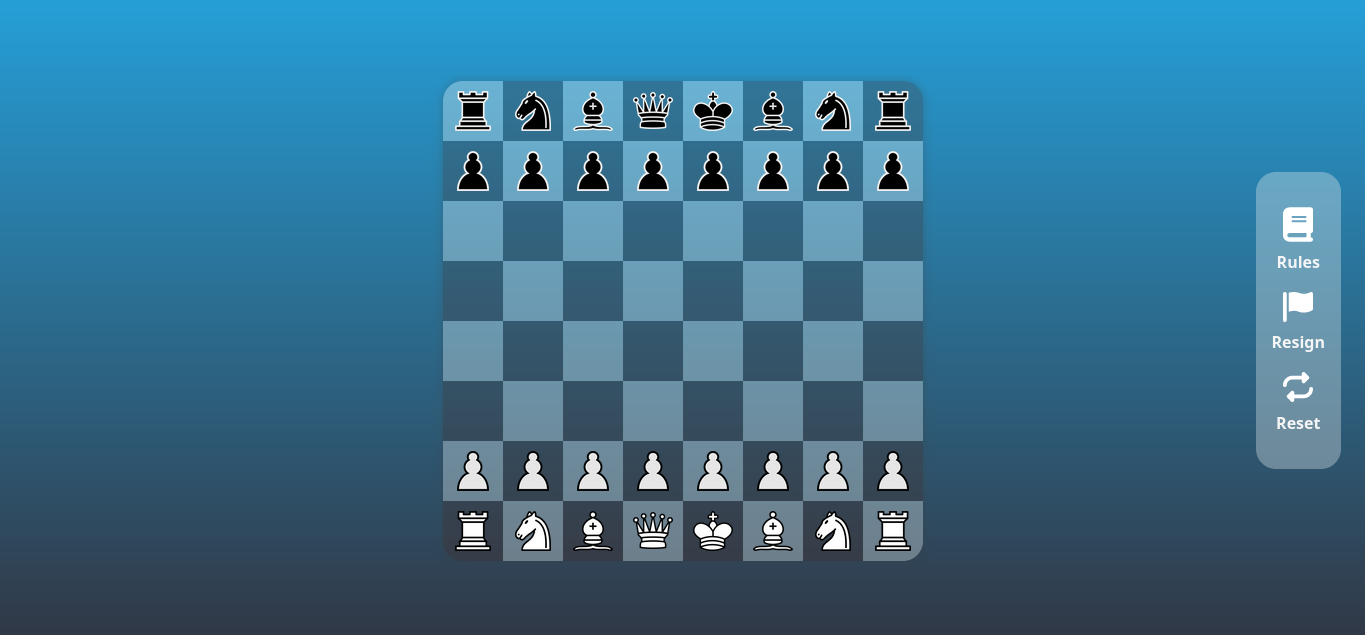
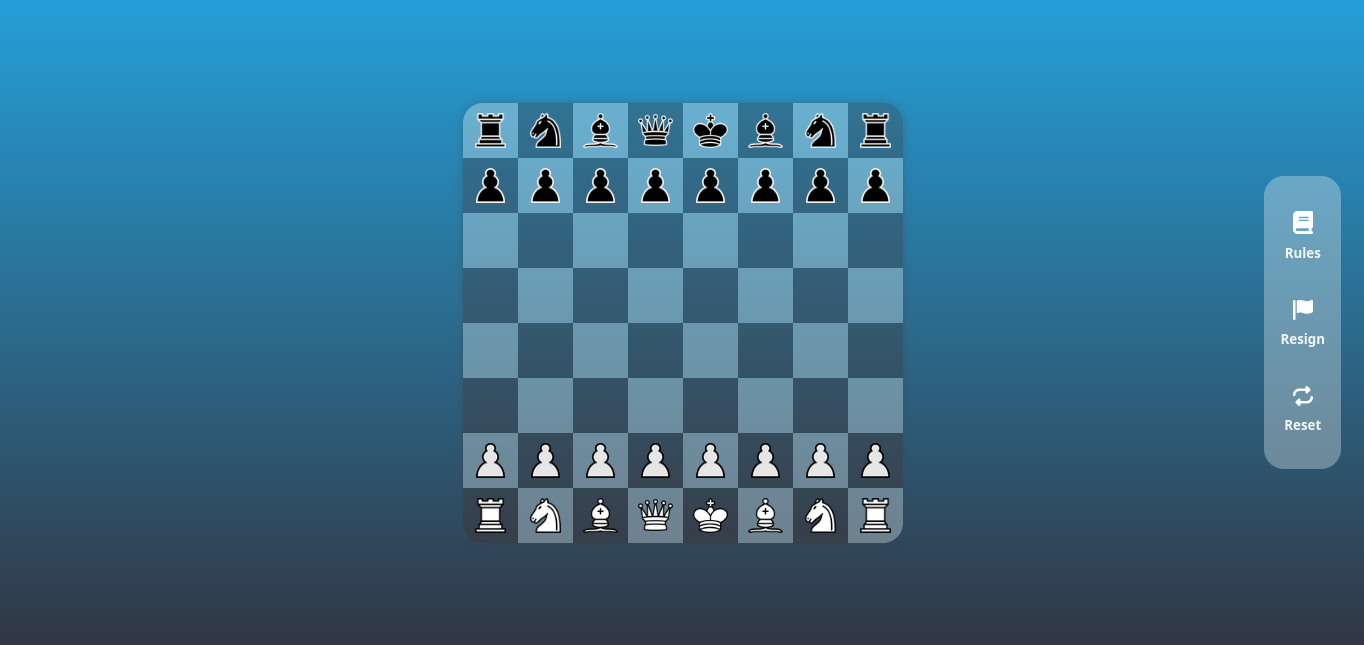
added responsivity and workaround for backdrop filter

Changed region(s): [[0.3079, 0.1197, 0.6774, 0.8976], [0.893, 0.2693, 0.9853, 0.748]]

diff --git a/css/main.css b/css/main.css
@@ -5,32 +5,56 @@
   font-family: "Segoe UI", Tahoma, Geneva, Verdana, sans-serif;
 }
 
+body {
+  overflow: hidden;
+}
+
 #root {
   display: flex;
   justify-content: center;
   align-items: center;
-  flex-direction: row;
+  flex-direction: column;
   min-height: 100vh;
   min-width: 100vw;
   background: linear-gradient(#259fd8, #313744);
+  transition: 0.2s;
 }
 
 #right-panel {
+  display: flex;
+  justify-content: center;
+  align-items: center;
+  flex-direction: column;
   position: absolute;
   right: 25px;
   padding: 1rem;
   border-radius: 20px;
-  font-weight: bold;
-  text-align: center;
-  color: #f5f5f5;
   background-color: rgba(233, 241, 241, 0.3411764706);
+}
+@media (max-width: 725px) {
+  #right-panel {
+    position: relative;
+    right: 0;
+    margin-top: 3rem;
+    flex-direction: row;
+  }
 }
 #right-panel .option {
   margin: 1.2rem 0;
+  font-weight: bold;
+  text-align: center;
+  color: #f5f5f5;
+  background: none;
+  border: none;
   cursor: pointer;
 }
 #right-panel .option:hover img {
-  scale: 1.4;
+  transform: scale(1.4);
+}
+@media (max-width: 725px) {
+  #right-panel .option {
+    margin: 0 1.2rem;
+  }
 }
 #right-panel a {
   text-decoration: none;
@@ -38,8 +62,8 @@
   color: #f5f5f5;
 }
 #right-panel img {
-  width: 30px;
-  margin-bottom: 0.2rem;
+  width: 20px;
+  margin-bottom: 0.3rem;
   transition: 0.2s;
 }
 
@@ -67,8 +91,14 @@
   border-bottom-right-radius: 20px;
 }
 #chess-board td {
-  height: 60px;
-  width: 60px;
+  height: 55px;
+  width: 55px;
+}
+@media (max-width: 725px) {
+  #chess-board td {
+    height: 45px;
+    width: 45px;
+  }
 }
 #chess-board td div {
   height: 100%;
@@ -102,13 +132,18 @@
 }
 
 .highlight-1 {
-  padding: 22px;
+  padding: 20px;
   cursor: pointer;
 }
 .highlight-1:hover div {
   transition: 0.2s;
   transform: scale(1.3);
   background-color: white;
+}
+@media (max-width: 725px) {
+  .highlight-1 {
+    padding: 16px;
+  }
 }
 .highlight-1 div {
   -webkit-animation: pop 0.25s;
@@ -156,17 +191,21 @@
     opacity: 1;
   }
 }
+.blur {
+  filter: blur(10px) brightness(60%);
+  transform: scale(1.1);
+}
+
 .popup-screen {
   display: flex;
   justify-content: center;
   align-items: center;
   flex-direction: row;
   display: none;
-  position: fixed;
+  position: absolute;
+  top: 0;
   min-height: 100vh;
   min-width: 100vw;
-  -webkit-backdrop-filter: blur(10px) brightness(50%);
-          backdrop-filter: blur(10px) brightness(50%);
   -webkit-animation: appear 0.2s;
           animation: appear 0.2s;
 }
@@ -177,8 +216,8 @@
 
 .popup {
   padding: 2rem;
-  min-width: 400px;
-  min-height: 275px;
+  width: 375px;
+  height: 275px;
   border-radius: 15px;
   box-shadow: inset 0px 0 1px #ffffff;
   background-color: rgba(215, 222, 223, 0.3019607843);

diff --git a/scss/main.scss b/scss/main.scss
@@ -12,29 +12,48 @@
     font-family: "Segoe UI", Tahoma, Geneva, Verdana, sans-serif;
 }
 
+body {
+    overflow: hidden;
+}
+
 #root {
-    @include flexCenter(row);
+    @include flexCenter(column);
     min-height: 100vh;
     min-width: 100vw;
     background: linear-gradient(#259fd8, #313744);
+    transition: 0.2s;
 }
 
 #right-panel {
+    @include flexCenter(column);
     position: absolute;
     right: 25px;
     padding: 1rem;
     border-radius: 20px;
-    font-weight: bold;
-    text-align: center;
-    color: #f5f5f5;
     background-color: #e9f1f157;
+
+    @media (max-width: 725px) {
+        position: relative;
+        right: 0;
+        margin-top: 3rem;
+        flex-direction: row;
+    }
 
     .option {
         margin: 1.2rem 0;
+        font-weight: bold;
+        text-align: center;
+        color: #f5f5f5;
+        background: none;
+        border: none;
         cursor: pointer;
 
         &:hover img {
-            scale: 1.4;
+            transform: scale(1.4);
+        }
+
+        @media (max-width: 725px) {
+            margin: 0 1.2rem;
         }
     }
 
@@ -45,8 +64,8 @@
     }
 
     img {
-        width: 30px;
-        margin-bottom: 0.2rem;
+        width: 20px;
+        margin-bottom: 0.3rem;
         transition: 0.2s;
     }
 }
@@ -90,8 +109,13 @@
     }
 
     td {
-        height: 60px;
-        width: 60px;
+        height: 55px;
+        width: 55px;
+
+        @media (max-width: 725px) {
+            height: 45px;
+            width: 45px;
+        }
 
         div {
             height: 100%;
@@ -126,13 +150,17 @@
 }
 
 .highlight-1 {
-    padding: 22px;
+    padding: 20px;
     cursor: pointer;
 
     &:hover div {
         transition: 0.2s;
         transform: scale(1.3);
         background-color: #ffffffff;
+    }
+
+    @media (max-width: 725px) {
+        padding: 16px;
     }
 
     div {
@@ -166,13 +194,18 @@
     }
 }
 
+.blur {
+    filter: blur(10px) brightness(60%);
+    transform: scale(1.1);
+}
+
 .popup-screen {
     @include flexCenter(row);
     display: none;
-    position: fixed;
+    position: absolute;
+    top: 0;
     min-height: 100vh;
     min-width: 100vw;
-    backdrop-filter: blur(10px) brightness(50%);
     animation: appear 0.2s;
 }
 
@@ -182,8 +215,8 @@
 
 .popup {
     padding: 2rem;
-    min-width: 400px;
-    min-height: 275px;
+    width: 375px;
+    height: 275px;
     border-radius: 15px;
     box-shadow: inset 0px 0 1px #ffffff;
     background-color: #d7dedf4d;

diff --git a/js/main.js b/js/main.js
@@ -274,7 +274,9 @@ function actionCheck(target) {
 }
 
 function pawnPromotion(target) {
-    $("#root").append(
+    $("#root").addClass("blur");
+
+    $("body").append(
         `<div class="popup-screen visible">
             <div class="popup promotion">
                 <div class="text">Choose a piece</div>
@@ -370,7 +372,9 @@ function end() {
     // winner display message
     let winner = opponent.name.toUpperCase();
 
-    $("#root").append(
+    $("#root").addClass("blur");
+
+    $("body").append(
         `<div class="popup-screen visible" onclick="closePopup()">
             <div class="popup victory">
                 <div>CHECKMATE</div>
@@ -386,12 +390,17 @@ function end() {
     // disable click event
     disableMoves();
     $(player.className).off();
+    $("#resign").attr("disabled", true);
 }
 
 function reset() {
     $("tr").remove();
+    $("#resign").attr("disabled", false);
     initialisation();
 }
 
 // some other event listeners
-const closePopup = () => $(".popup-screen").remove();
+function closePopup() {
+    $(".popup-screen").remove();
+    $("#root").removeClass("blur");
+}

diff --git a/index.html b/index.html
@@ -13,20 +13,20 @@
             <table id="chess-board"></table>
 
             <div id="right-panel">
-                <div class="option">
+                <button class="option">
                     <a href="https://www.chess.com/learn-how-to-play-chess">
                         <img src="./assets/book.svg" />
                         <div>Rules</div></a
                     >
-                </div>
-                <div class="option" onclick="end()">
+                </button>
+                <button id="resign" class="option" onclick="end()">
                     <img src="./assets/flag.svg" />
                     <div>Resign</div>
-                </div>
-                <div class="option" onclick="reset()">
+                </button>
+                <button class="option" onclick="reset()">
                     <img src="./assets/repeat.svg" alt="" srcset="" />
                     <div>Reset</div>
-                </div>
+                </button>
             </div>
         </div>
 

diff --git a/README.md b/README.md
@@ -14,10 +14,10 @@
   <p>Try it now by clicking the following link: https://luckasranarison.github.io/JQChess/</p>
 </div>
 
-
-
 # Description
+
 This is not an efficient chess implementation (I don't even play chess), I decided to manipulate ojects directly to perform some specific queries because my goal with this project was to explore jQuery.
+
 <p>The game includes all advanced chess moves: </p>
 <ul>
   <li>Castling</li>
@@ -26,15 +26,23 @@ This is not an efficient chess implementation (I don't even play chess), I decid
 </ul>
 It's still missing a lot of features like timer, unsufficient material check...
 
+<br/>
+
 # Preview
-It's not responsive yet so it may not correctly render on mobile devices. <br/>
 
-**NOTE:** Some browsers may not support backdrop filter.
+Desktop/mobile view
 
-<img src="/preview.png"/>
+<div >
+  <img src="/preview.png" height="350px" width="75%"/>
+  <img src="/preview2.png" height="350px" align="right"/>
+</div>
+
+<br/>
 
 # Credits
+
 All assets used in the game are from the following websites:
+
 <ul>
   <li>
     <a href="https://opengameart.org/content/chess-pieces-and-board-squares">JohnPablok's improved Cburnett chess set</a>
